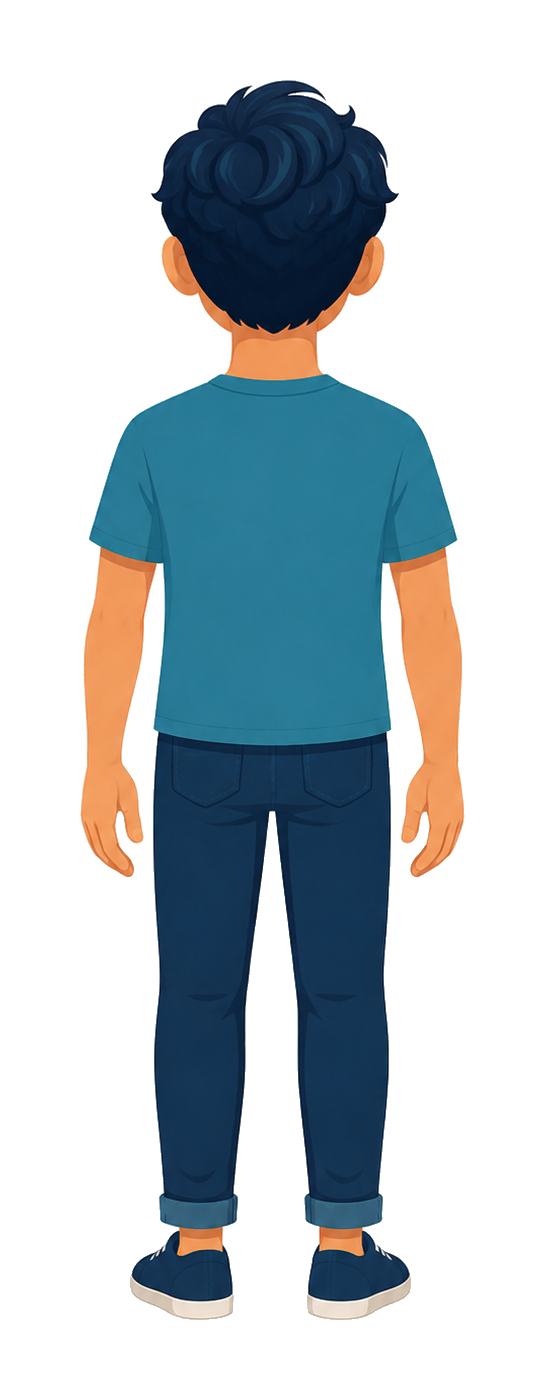
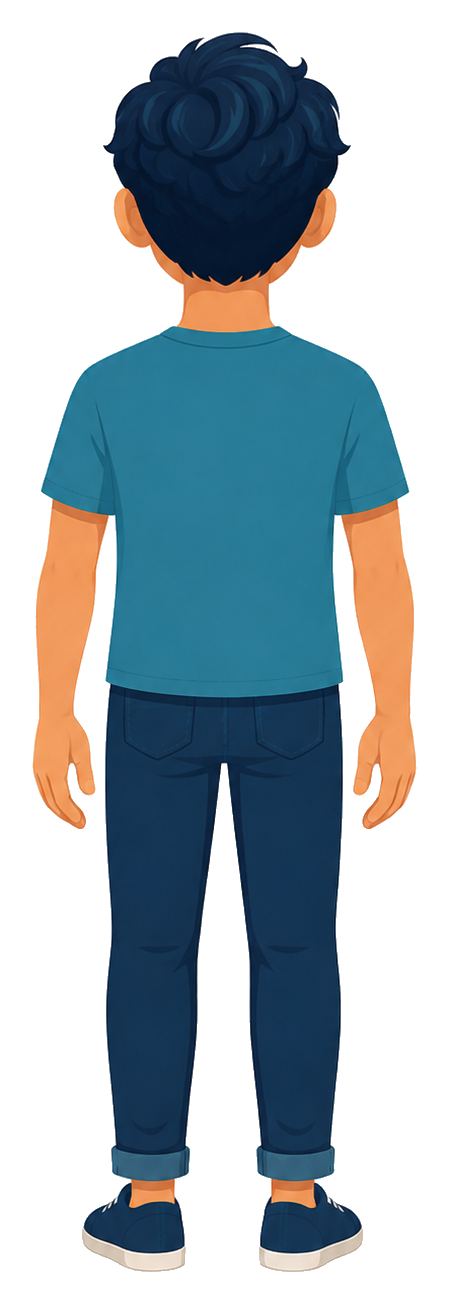
Fix body parts quiz flow and worlds visibility

Changed region(s): [[0.0624, 0.0, 0.9354, 0.9816], [0.4365, 0.6748, 0.4677, 0.7975], [0.4989, 0.5215, 0.5301, 0.5521]]

diff --git a/app/lesson/[lessonId]/BodyPartsGame.tsx b/app/lesson/[lessonId]/BodyPartsGame.tsx
@@ -41,6 +41,8 @@ type BodyPart = {
   note?: Record<ExplanationLanguage, string>;
 };
 
+const SHOW_HOTSPOT_DEBUG = false;
+
 type AnswerState = {
   selectedId: string;
   isCorrect: boolean;
@@ -48,13 +50,13 @@ type AnswerState = {
 
 const bodyParts: BodyPart[] = [
   { id: "head", section: "face", russian: "голова", english: "head", arabic: "الرأس", marker: 1, x: 50, y: 31, highlight: "left-[28%] top-[14%] h-[42%] w-[44%] rounded-[45%]" },
-  { id: "hair", section: "face", russian: "волосы", english: "hair", arabic: "الشعر", marker: 2, x: 50, y: 16, highlight: "left-[30%] top-[9%] h-[20%] w-[42%] rounded-t-full" },
-  { id: "eye", section: "face", russian: "глаз", english: "eye", arabic: "العين", marker: 3, x: 42, y: 37, highlight: "left-[34%] top-[33%] h-[10%] w-[15%] rounded-full" },
-  { id: "nose", section: "face", russian: "нос", english: "nose", arabic: "الأنف", marker: 4, x: 50, y: 46, highlight: "left-[45%] top-[39%] h-[16%] w-[12%] rounded-full" },
-  { id: "mouth", section: "face", russian: "рот", english: "mouth", arabic: "الفم", marker: 5, x: 50, y: 57, highlight: "left-[39%] top-[53%] h-[10%] w-[23%] rounded-full" },
-  { id: "ear", section: "face", russian: "ухо", english: "ear", arabic: "الأذن", marker: 6, x: 74, y: 40, highlight: "left-[70%] top-[31%] h-[20%] w-[12%] rounded-full" },
-  { id: "neck", section: "body", russian: "шея", english: "neck", arabic: "الرقبة", marker: 7, x: 50, y: 14, highlight: "left-[41%] top-[7%] h-[16%] w-[18%] rounded-lg" },
-  { id: "shoulder", section: "body", russian: "плечо", english: "shoulder", arabic: "الكتف", marker: 8, x: 31, y: 29, highlight: "left-[24%] top-[22%] h-[17%] w-[24%] rounded-full" },
+  { id: "hair", section: "face", russian: "волосы", english: "hair", arabic: "الشعر", marker: 2, x: 50, y: 13, highlight: "left-[30%] top-[9%] h-[20%] w-[42%] rounded-t-full" },
+  { id: "eye", section: "face", russian: "глаз", english: "eye", arabic: "العين", marker: 3, x: 35, y: 47, highlight: "left-[34%] top-[33%] h-[10%] w-[15%] rounded-full" },
+  { id: "nose", section: "face", russian: "нос", english: "nose", arabic: "الأنف", marker: 4, x: 50, y: 57, highlight: "left-[45%] top-[39%] h-[16%] w-[12%] rounded-full" },
+  { id: "mouth", section: "face", russian: "рот", english: "mouth", arabic: "الفم", marker: 5, x: 50, y: 67, highlight: "left-[39%] top-[53%] h-[10%] w-[23%] rounded-full" },
+  { id: "ear", section: "face", russian: "ухо", english: "ear", arabic: "الأذن", marker: 6, x: 86, y: 52, highlight: "left-[70%] top-[31%] h-[20%] w-[12%] rounded-full" },
+  { id: "neck", section: "body", russian: "шея", english: "neck", arabic: "الرقبة", marker: 7, x: 50, y: 29, highlight: "left-[41%] top-[7%] h-[16%] w-[18%] rounded-lg" },
+  { id: "shoulder", section: "body", russian: "плечо", english: "shoulder", arabic: "الكتف", marker: 8, x: 25, y: 36, highlight: "left-[24%] top-[22%] h-[17%] w-[24%] rounded-full" },
   {
     id: "arm",
     section: "body",
@@ -63,14 +65,14 @@ const bodyParts: BodyPart[] = [
     arabic: "الذراع / اليد",
     marker: 9,
     x: 18,
-    y: 51,
+    y: 57,
     highlight: "left-[8%] top-[31%] h-[42%] w-[18%] rounded-full -rotate-12",
     note: {
       en: "рука can mean arm or hand depending on context.",
       ar: "كلمة рука قد تعني الذراع أو اليد حسب السياق.",
     },
   },
-  { id: "stomach", section: "body", russian: "живот", english: "stomach/belly", arabic: "البطن", marker: 10, x: 50, y: 51, highlight: "left-[37%] top-[39%] h-[25%] w-[27%] rounded-full" },
+  { id: "stomach", section: "body", russian: "живот", english: "stomach/belly", arabic: "البطن", marker: 10, x: 50, y: 47, highlight: "left-[37%] top-[39%] h-[25%] w-[27%] rounded-full" },
   {
     id: "leg",
     section: "body",
@@ -78,8 +80,8 @@ const bodyParts: BodyPart[] = [
     english: "leg/foot",
     arabic: "الساق / القدم",
     marker: 11,
-    x: 43,
-    y: 80,
+    x: 63,
+    y: 90,
     highlight: "left-[29%] top-[60%] h-[34%] w-[23%] rounded-full rotate-3",
     note: {
       en: "нога can mean leg or foot depending on context.",
@@ -94,7 +96,7 @@ const bodyParts: BodyPart[] = [
     arabic: "الظهر",
     marker: 12,
     x: 50,
-    y: 44,
+    y: 38,
     highlight: "left-[29%] top-[32%] h-[38%] w-[43%] rounded-[40%]",
     note: {
       en: "спина means back.",
@@ -124,25 +126,25 @@ const finalQuestions: FinalQuestion[] = [
 
 const stageOrder: LessonStage[] = ["face", "body", "back", "tap", "listen", "match", "final"];
 
-const bodySectionImages: Record<BodySection, { src: string; alt: string }> = {
-  face: { src: "/lessons/body-parts/head-face.png", alt: "Head and face character illustration" },
-  body: { src: "/lessons/body-parts/front-body.png", alt: "Front body character illustration" },
-  back: { src: "/lessons/body-parts/back-body.png", alt: "Back body character illustration" },
+const bodySectionImages: Record<BodySection, { src: string; alt: string; width: number; height: number }> = {
+  face: { src: "/lessons/body-parts/head-face.png", alt: "Head and face character illustration", width: 757, height: 972 },
+  body: { src: "/lessons/body-parts/front-body.png", alt: "Front body character illustration", width: 436, height: 1342 },
+  back: { src: "/lessons/body-parts/back-body.png", alt: "Back body character illustration", width: 449, height: 1304 },
 };
 
 const bodyPartVisuals: Record<string, Pick<BodyPart, "x" | "y" | "highlight">> = {
-  head: { x: 50, y: 18, highlight: "" },
-  hair: { x: 50, y: 10, highlight: "" },
-  eye: { x: 40, y: 42, highlight: "" },
-  nose: { x: 50, y: 51, highlight: "" },
-  mouth: { x: 50, y: 62, highlight: "" },
-  ear: { x: 78, y: 45, highlight: "" },
-  neck: { x: 50, y: 17, highlight: "" },
-  shoulder: { x: 34, y: 27, highlight: "" },
-  arm: { x: 27, y: 48, highlight: "" },
-  stomach: { x: 50, y: 43, highlight: "" },
-  leg: { x: 50, y: 73, highlight: "" },
-  back: { x: 50, y: 36, highlight: "" },
+  head: { x: 50, y: 31, highlight: "" },
+  hair: { x: 50, y: 13, highlight: "" },
+  eye: { x: 35, y: 47, highlight: "" },
+  nose: { x: 50, y: 57, highlight: "" },
+  mouth: { x: 50, y: 67, highlight: "" },
+  ear: { x: 86, y: 52, highlight: "" },
+  neck: { x: 50, y: 29, highlight: "" },
+  shoulder: { x: 25, y: 36, highlight: "" },
+  arm: { x: 18, y: 57, highlight: "" },
+  stomach: { x: 50, y: 47, highlight: "" },
+  leg: { x: 63, y: 90, highlight: "" },
+  back: { x: 50, y: 38, highlight: "" },
 };
 
 export function BodyPartsGame({ lesson }: { lesson: Lesson }) {
@@ -172,6 +174,7 @@ export function BodyPartsGame({ lesson }: { lesson: Lesson }) {
   const currentFinal = finalQuestions[finalIndex];
   const currentFinalPart = getPart(currentFinal.partId);
   const lessonProgress = getStageProgress(stage, tapIndex, listenIndex, matchedIds.length, finalIndex);
+  const matchOptionParts = useMemo(() => getStableDerangedParts(matchParts.map(getPart), "body-parts-match-meanings"), []);
   const nextAction = useMemo(
     () => ({
       href: getNextAvailablePath(activeProgress),
@@ -365,7 +368,7 @@ export function BodyPartsGame({ lesson }: { lesson: Lesson }) {
               <Link href="/worlds" className="rounded-full border border-white/10 bg-white/10 px-5 py-4 font-black text-white transition hover:bg-white/15">
                 {text.lesson.backToWorlds}
               </Link>
-              <Link href="/practice" className="rounded-full border border-yellow-300/40 bg-yellow-300/10 px-5 py-4 font-black text-yellow-100 transition hover:bg-yellow-300/20">
+              <Link href="/practice" className="rounded-full border border-yellow-200 bg-yellow-300 px-5 py-4 font-black text-slate-950 transition hover:bg-yellow-200">
                 {text.lesson.practice}
               </Link>
             </div>
@@ -449,6 +452,7 @@ export function BodyPartsGame({ lesson }: { lesson: Lesson }) {
             selectedRussianId={selectedRussianId}
             matchedIds={matchedIds}
             feedback={matchFeedback}
+            optionParts={matchOptionParts}
             language={language}
             translate={translation}
             onSelectRussian={setSelectedRussianId}
@@ -594,6 +598,7 @@ function MatchPractice({
   selectedRussianId,
   matchedIds,
   feedback,
+  optionParts,
   language,
   translate,
   onSelectRussian,
@@ -603,6 +608,7 @@ function MatchPractice({
   selectedRussianId: string;
   matchedIds: string[];
   feedback: AnswerState | null;
+  optionParts: BodyPart[];
   language: ExplanationLanguage;
   translate: (part: BodyPart) => string;
   onSelectRussian: (id: string) => void;
@@ -652,7 +658,7 @@ function MatchPractice({
         </div>
         <div className="grid gap-2">
           <p className="px-1 text-xs font-black uppercase tracking-[0.18em] text-slate-400" {...uiTextProps(language)}>{text.lesson.chooseTranslation}</p>
-          {parts.map((part) => (
+          {optionParts.map((part) => (
             <button
               type="button"
               key={part.id}
@@ -741,9 +747,11 @@ function FinalPractice({
           <ChoiceChallenge question={question} targetPart={targetPart} answer={answer} language={language} translate={translate} onAnswer={onAnswer} />
         )}
       </div>
-      <aside className="hidden min-w-0 lg:block lg:sticky lg:top-24 lg:self-start">
-        <SelectedPartCard part={targetPart} language={language} translate={translate} note={targetPart.note?.[language]} />
-      </aside>
+      {answer ? (
+        <aside className="hidden min-w-0 lg:block lg:sticky lg:top-24 lg:self-start">
+          <SelectedPartCard part={targetPart} language={language} translate={translate} note={targetPart.note?.[language]} />
+        </aside>
+      ) : null}
     </section>
   );
 }
@@ -769,6 +777,7 @@ function BodyMap({
   const image = bodySectionImages[section];
   const highlightedPart = parts.find((part) => part.id === (feedbackPartId ?? activePartId));
   const wrongPart = parts.find((part) => part.id === wrongPartId);
+  const imageRatio = image.width / image.height;
 
   return (
     <div className="min-w-0 rounded-2xl border border-white/10 bg-slate-950/70 p-3 text-white sm:p-4">
@@ -779,44 +788,65 @@ function BodyMap({
         </span>
       </div>
       <div className="mt-3 flex min-h-[20rem] items-center justify-center overflow-hidden rounded-2xl border border-cyan-300/20 bg-white p-2 shadow-[inset_0_0_0_1px_rgba(17,32,59,0.05)] sm:min-h-[22rem] sm:p-3">
-        <div className="relative mx-auto max-h-[min(62vh,31rem)] max-w-full text-[#11203B]">
+        <div
+          className="relative mx-auto w-full text-[#11203B]"
+          style={{
+            aspectRatio: `${image.width} / ${image.height}`,
+            maxWidth: `min(100%, ${(imageRatio * 31).toFixed(2)}rem, ${(imageRatio * 62).toFixed(2)}vh)`,
+          }}
+        >
           {/* eslint-disable-next-line @next/next/no-img-element */}
           <img
             src={image.src}
             alt={image.alt}
-            className="block max-h-[min(62vh,31rem)] min-h-[18rem] w-auto max-w-full select-none object-contain"
+            className="absolute inset-0 h-full w-full select-none object-contain"
             draggable={false}
           />
-          {highlightedPart ? <BodyRegionHighlight part={highlightedPart} tone={feedbackPartId ? "correct" : "active"} /> : null}
-          {wrongPart ? <BodyRegionHighlight part={wrongPart} tone="wrong" /> : null}
-          {parts.map((part) => {
-            const visual = getBodyPartVisual(part);
-            const isActive = part.id === activePartId;
-            const isCorrect = part.id === feedbackPartId;
-            const isWrong = part.id === wrongPartId;
-            const label = `${part.marker}. ${part.russian}, ${translate(part)}`;
+          <div className="absolute inset-0">
+            {highlightedPart ? <BodyRegionHighlight part={highlightedPart} tone={feedbackPartId ? "correct" : "active"} /> : null}
+            {wrongPart ? <BodyRegionHighlight part={wrongPart} tone="wrong" /> : null}
+            {parts.map((part) => {
+              const visual = getBodyPartVisual(part);
+              const isActive = part.id === activePartId;
+              const isCorrect = part.id === feedbackPartId;
+              const isWrong = part.id === wrongPartId;
+              const label = `${part.marker}. ${part.russian}, ${translate(part)}`;
 
-            return (
-              <button
-                type="button"
-                key={part.id}
-                onClick={() => onSelect(part)}
-                aria-label={label}
-                className={`absolute z-20 flex h-11 w-11 -translate-x-1/2 -translate-y-1/2 items-center justify-center rounded-full border-2 text-sm font-black shadow-lg shadow-slate-900/20 transition after:absolute after:inset-[-10px] after:rounded-full after:border-2 after:border-current/20 after:content-[''] focus:outline-none focus:ring-4 focus:ring-[#11203B]/40 sm:h-12 sm:w-12 sm:text-base ${
-                  isCorrect
-                    ? "border-emerald-800 bg-emerald-200 text-emerald-950 ring-4 ring-emerald-300/50"
-                    : isWrong
-                      ? "border-red-800 bg-red-200 text-red-950 ring-4 ring-red-300/50"
-                      : isActive
-                      ? "scale-110 border-[#11203B] bg-[#B7E531] text-[#11203B] ring-4 ring-[#57D4E8]/60"
-                      : "border-[#0F766E] bg-white/95 text-[#11203B] hover:-translate-y-[54%] hover:bg-[#57D4E8]"
-                }`}
-                style={{ left: `${visual.x}%`, top: `${visual.y}%` }}
-              >
-                {isCorrect ? "OK" : isWrong ? "!" : part.marker}
-              </button>
-            );
-          })}
+              return (
+                <button
+                  type="button"
+                  key={part.id}
+                  onClick={() => onSelect(part)}
+                  aria-label={label}
+                  className="group absolute z-20 flex h-11 w-11 -translate-x-1/2 -translate-y-1/2 items-center justify-center rounded-full bg-transparent text-[13px] font-black transition focus:outline-none focus:ring-2 focus:ring-[#11203B]/35"
+                  style={{ left: `${visual.x}%`, top: `${visual.y}%` }}
+                >
+                  <span
+                    className={`flex h-7 w-7 items-center justify-center rounded-full border text-[13px] font-black leading-none shadow-sm shadow-slate-900/15 transition ${
+                      isCorrect
+                        ? "border-emerald-800 bg-emerald-200 text-emerald-950 ring-1 ring-emerald-300/70"
+                        : isWrong
+                          ? "border-red-800 bg-red-200 text-red-950 ring-1 ring-red-300/70"
+                          : isActive
+                            ? "border-[#11203B] bg-[#B7E531] text-[#11203B] ring-2 ring-[#57D4E8]/45"
+                            : "border-[#0F766E] bg-white/95 text-[#11203B] group-hover:bg-[#57D4E8]"
+                    }`}
+                  >
+                    {isCorrect ? "OK" : isWrong ? "!" : part.marker}
+                  </span>
+                  {SHOW_HOTSPOT_DEBUG ? (
+                    <>
+                      <span className="pointer-events-none absolute left-1/2 top-0 h-11 w-px -translate-x-1/2 bg-fuchsia-500/80" />
+                      <span className="pointer-events-none absolute left-0 top-1/2 h-px w-11 -translate-y-1/2 bg-fuchsia-500/80" />
+                      <span className="pointer-events-none absolute left-8 top-7 rounded bg-slate-950/85 px-1 py-0.5 text-[10px] font-bold text-white">
+                        {visual.x},{visual.y}
+                      </span>
+                    </>
+                  ) : null}
+                </button>
+              );
+            })}
+          </div>
         </div>
       </div>
     </div>
@@ -919,7 +949,14 @@ function ChoiceChallenge({
   onAnswer: (isCorrect: boolean, userAnswer: string) => void;
 }) {
   const correctAnswer = question.type === "russian" ? targetPart.russian : translate(targetPart);
-  const options = question.type === "russian" ? question.options : question.options.map((option) => translate(getPartByEnglish(option)));
+  const options = useMemo(
+    () =>
+      getStableShuffledValues(
+        question.type === "russian" ? question.options : question.options.map((option) => translate(getPartByEnglish(option))),
+        `body-parts-final-${question.id}-${language}`,
+      ),
+    [language, question.id, question.options, question.type, translate],
+  );
 
   return (
     <div className="mt-4 grid gap-3 sm:grid-cols-2">
@@ -1066,15 +1103,15 @@ function Feedback({
 function BodyRegionHighlight({ part, tone }: { part: BodyPart; tone: "active" | "correct" | "wrong" }) {
   const visual = getBodyPartVisual(part);
   const toneClass = {
-    active: "border-[#11203B]/80 bg-[#B7E531]/20 ring-[#57D4E8]/45",
-    correct: "border-emerald-800 bg-emerald-300/20 ring-emerald-300/45",
-    wrong: "border-red-800 bg-red-300/20 ring-red-300/45",
+    active: "border-[#11203B]/75 bg-transparent ring-[#57D4E8]/35",
+    correct: "border-emerald-800/80 bg-transparent ring-emerald-300/35",
+    wrong: "border-red-800/80 bg-transparent ring-red-300/35",
   }[tone];
 
   return (
     <div
       aria-hidden="true"
-      className={`pointer-events-none absolute z-10 h-16 w-16 -translate-x-1/2 -translate-y-1/2 rounded-full border-[3px] shadow-[0_0_26px_rgba(87,212,232,0.22)] ring-8 sm:h-20 sm:w-20 ${toneClass}`}
+      className={`pointer-events-none absolute z-10 h-9 w-9 -translate-x-1/2 -translate-y-1/2 rounded-full border-2 ring-2 ${toneClass}`}
       style={{ left: `${visual.x}%`, top: `${visual.y}%` }}
     />
   );
@@ -1133,7 +1170,45 @@ function getListenOptions(targetPart: BodyPart) {
     back: ["back", "stomach", "shoulder", "head"],
   };
 
-  return (optionIds[targetPart.id] ?? [targetPart.id, "head", "arm", "leg"]).map(getPart);
+  return getStableShuffledParts(
+    (optionIds[targetPart.id] ?? [targetPart.id, "head", "arm", "leg"]).map(getPart),
+    `body-parts-listen-${targetPart.id}`,
+  );
+}
+
+function getStableShuffledValues<T>(values: T[], seed: string) {
+  return [...values].sort((left, right) => stableHash(`${seed}:${String(left)}`) - stableHash(`${seed}:${String(right)}`));
+}
+
+function getStableShuffledParts(parts: BodyPart[], seed: string) {
+  return [...parts].sort((left, right) => stableHash(`${seed}:${left.id}`) - stableHash(`${seed}:${right.id}`));
+}
+
+function getStableDerangedParts(parts: BodyPart[], seed: string) {
+  if (parts.length < 2) return parts;
+
+  const originalIds = parts.map((part) => part.id);
+  const shuffledParts = getStableShuffledParts(parts, seed);
+
+  for (let attempts = 0; attempts < shuffledParts.length; attempts += 1) {
+    if (shuffledParts.every((part, index) => part.id !== originalIds[index])) {
+      return shuffledParts;
+    }
+
+    shuffledParts.push(shuffledParts.shift() ?? shuffledParts[0]);
+  }
+
+  return [...parts.slice(1), parts[0]];
+}
+
+function stableHash(value: string) {
+  let hash = 0;
+
+  for (let index = 0; index < value.length; index += 1) {
+    hash = (hash * 31 + value.charCodeAt(index)) >>> 0;
+  }
+
+  return hash;
 }
 
 function getSectionTitle(section: BodySection, language: ExplanationLanguage) {

diff --git a/lib/world-content.ts b/lib/world-content.ts
@@ -194,8 +194,36 @@ function mapWorldFromDatabase(world: DatabaseWorld): World {
 function mergeDatabaseAndStaticWorlds(databaseWorlds: World[]) {
   const databaseWorldIds = new Set(databaseWorlds.map((world) => world.id));
   const missingStaticWorlds = worlds.filter((world) => !databaseWorldIds.has(world.id));
+  const mergedWorlds = databaseWorlds.map((databaseWorld) => {
+    const staticWorld = worlds.find((world) => world.id === databaseWorld.id);
 
-  return [...databaseWorlds, ...missingStaticWorlds].sort((left, right) => left.number - right.number);
+    if (!staticWorld) {
+      return databaseWorld;
+    }
+
+    const databaseStageIds = new Set(databaseWorld.stages.map((stage) => stage.id));
+    const databaseLessonIds = new Set(databaseWorld.lessons.map((lesson) => lesson.id));
+    const missingStaticStages = staticWorld.stages.filter((stage) => !databaseStageIds.has(stage.id));
+    const missingStaticLessons = staticWorld.lessons.filter((lesson) => !databaseLessonIds.has(lesson.id));
+
+    return {
+      ...databaseWorld,
+      stages: [...databaseWorld.stages, ...missingStaticStages].sort(
+        (left, right) => getSortableNumber(left.number) - getSortableNumber(right.number),
+      ),
+      lessons: [...databaseWorld.lessons, ...missingStaticLessons].sort(
+        (left, right) => getSortableNumber(left.number) - getSortableNumber(right.number),
+      ),
+    };
+  });
+
+  return [...mergedWorlds, ...missingStaticWorlds].sort((left, right) => left.number - right.number);
+}
+
+function getSortableNumber(value: string) {
+  const parsed = Number.parseInt(value, 10);
+
+  return Number.isFinite(parsed) ? parsed : Number.MAX_SAFE_INTEGER;
 }
 
 function asRecord(value: unknown): JsonRecord {
